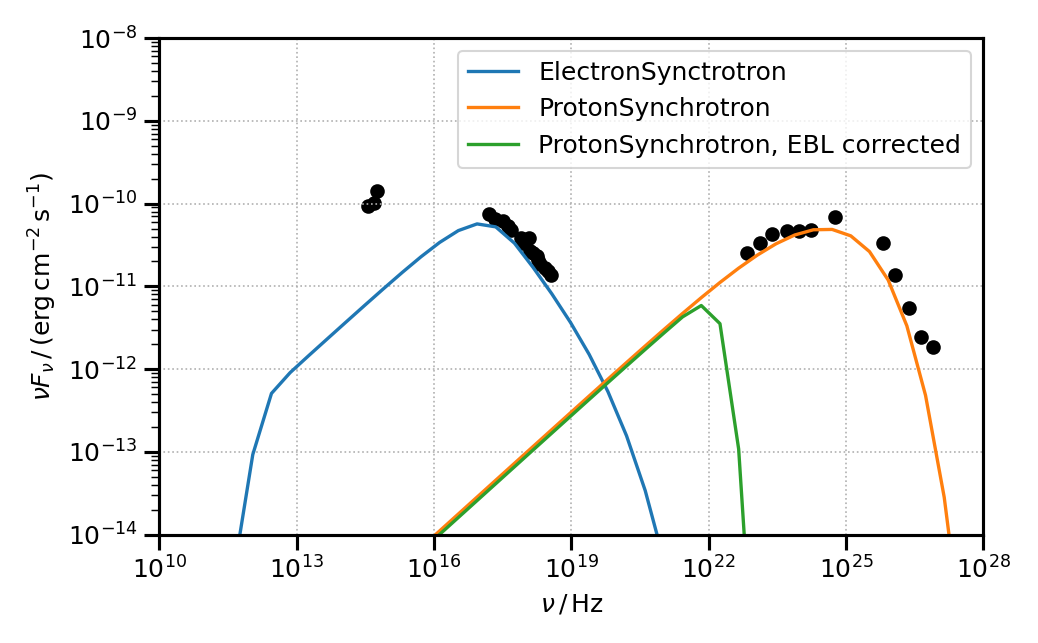
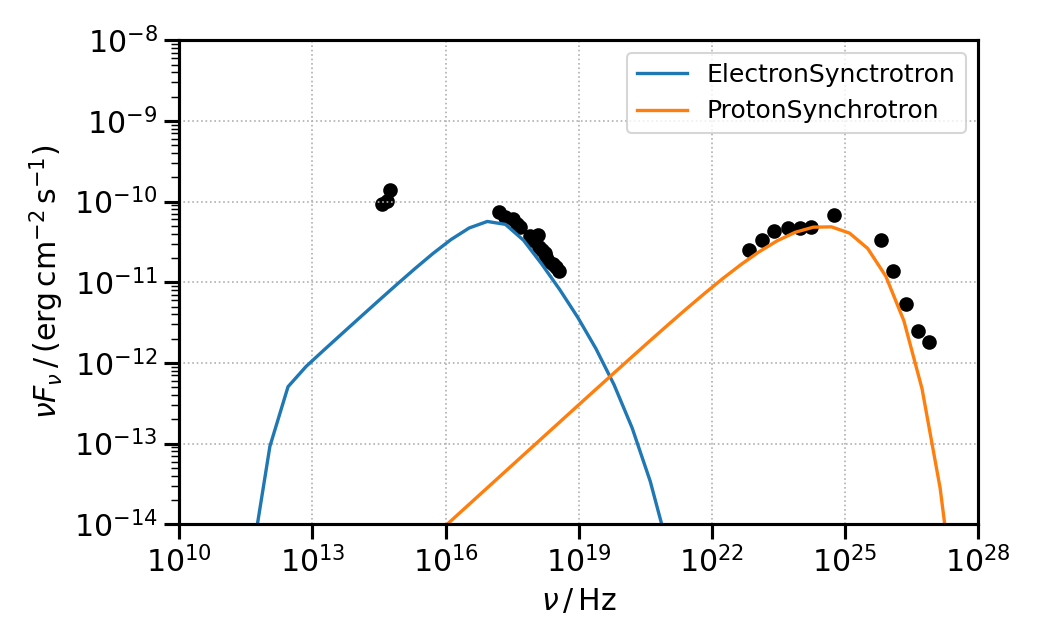
Change some typos in script and some imports to make scripts running. Now everything works and we should be ready for the PR.

diff --git a/agnpy/tesi/conversion.py b/agnpy/tesi/conversion.py
@@ -1,0 +1,46 @@
+import numpy as np
+import astropy.units as u
+from astropy.constants import e, h, c, m_e, m_p, sigma_T, G
+
+mec2 = m_e.to("erg", equivalencies=u.mass_energy())
+mpc2 = m_p.to("erg", equivalencies=u.mass_energy())
+lambda_c_e = (h / (m_e * c)).to("cm")  # Compton wavelength of electrons
+lambda_c_p = (h / (m_p * c)).to("cm")  # Compton wavelength of protons
+# equivalency for decomposing Gauss in Gaussian-cgs units (not available in astropy)
+Gauss_cgs_unit = "cm(-1/2) g(1/2) s-1"
+Gauss_cgs_equivalency = [(u.G, u.Unit(Gauss_cgs_unit), lambda x: x, lambda x: x)]
+
+# equivalency to transform frequencies to energies in electron or proton rest mass units
+def epsilon_equivalency(m = m_e):
+    if m == m_e:
+        epsilon_equivalency = [
+            (u.Hz, u.Unit(""), lambda x: h.cgs * x / mec2, lambda x: x * mec2 / h.cgs)
+            ]
+    elif m == m_p:
+        epsilon_equivalency = [
+            (u.Hz, u.Unit(""), lambda x: h.cgs * x / mpc2, lambda x: x * mpc2 / h.cgs)
+            ]
+    else:
+        raise ValueError(
+            f"Provide either the electron or the proton mass. "
+        )
+    return epsilon_equivalency
+
+
+def nu_to_epsilon_prime(nu, z=0, delta_D=1, m = m_e):
+    """convert the frequency to a dimensionless energy in another reference
+    frame with redshift z and moving with doppler factor delta_D"""
+    epsilon_eq = epsilon_equivalency(m)
+    epsilon = nu.to("", equivalencies=epsilon_eq)
+    return (1 + z) * epsilon / delta_D
+
+
+def B_to_cgs(B):
+    """convert a magnetic field to CGS units"""
+    return B.to(Gauss_cgs_unit, equivalencies=Gauss_cgs_equivalency)
+
+
+def to_R_g_units(r, M):
+    """convert a distance in graviational radii units"""
+    R_g = G * M / c ** 2
+    return (r / R_g).to("")

diff --git a/agnpy/tesi/comparison_PKS.py b/agnpy/tesi/comparison_PKS.py
@@ -2,9 +2,10 @@ import numpy as np
 import astropy.units as u
 from agnpy.spectra import ExpCutoffPowerLaw, ExpCutoffBrokenPowerLaw
 from agnpy.emission_regions import Blob
-#from agnpy.synchrotron import Synchrotron
-from synchrotron_new import Synchrotron
-from proton_synchrotron import ProtonSynchrotron
+from agnpy.synchrotron import Synchrotron
+#from synchrotron_new import Synchrotron
+from agnpy.synchrotron.proton_synchrotron import ProtonSynchrotron
+#from proton_synchrotron import ProtonSynchrotron
 
 from agnpy.utils.plot import plot_sed
 import matplotlib.pyplot as plt
@@ -18,11 +19,6 @@ from agnpy.utils.conversion import mec2, mpc2
 from agnpy.compton import SynchrotronSelfCompton
 
 load_mpl_rc()  # adopt agnpy plotting style
-
-# Try user-defined plot style
-#matplotlib.style.use('/Users/ilaria/Desktop/Dottorato_data/Plot_style/file.mplstyle')
-#matplotlib.style.use('seaborn-muted')
-#print(matplotlib.style.available)
 
 # Extract data of PKS 2155-304
 pks_sed = np.loadtxt('data/PKS2155-304/PKS2155-304_data_circa.txt')
@@ -117,10 +113,10 @@ plt.xlim(1e10, 1e28) # For frequencies
 plt.savefig('Comparison.png')
 plt.show()
 
-plt.figure(figsize = (6.92, 4.29))
-blob.plot_n_e(label = 'Electron distribution')
-blob.plot_n_p(label = 'Proton distribution')
+#plt.figure(figsize = (6.92, 4.29))
+#blob.plot_n_e(label = 'Electron distribution')
+#blob.plot_n_p(label = 'Proton distribution')
 #n_e.plot()
-plt.ylim(1e-44, 1e5)
-plt.legend()
+#plt.ylim(1e-44, 1e5)
+#plt.legend()
 #plt.savefig('Particle_distr.png')

diff --git a/agnpy/tesi/agnpy_vs_cerruti.py b/agnpy/tesi/agnpy_vs_cerruti.py
@@ -3,8 +3,9 @@ import astropy.units as u
 from agnpy.spectra import BrokenPowerLaw, ExpCutoffPowerLaw, ExpCutoffBrokenPowerLaw
 from agnpy.emission_regions import Blob
 #from agnpy.synchrotron import Synchrotron
-from synchrotron_new import Synchrotron
-from proton_synchrotron import ProtonSynchrotron
+#from synchrotron_new import Synchrotron
+from agnpy.synchrotron import ProtonSynchrotron
+#from proton_synchrotron import ProtonSynchrotron
 
 from agnpy.utils.plot import plot_sed
 import matplotlib.pyplot as plt
@@ -70,7 +71,7 @@ plt.show()
 # Comparing the two distributions:
 
 
-gamma, dndg = np.genfromtxt('data/Cerruti/second_email/test_ps.dat',  dtype = 'float', comments = '#', usecols = (2,3), unpack = True)
+gamma, dndg = np.genfromtxt('./data/Cerruti/second_email/test_ps.dat',  dtype = 'float', comments = '#', usecols = (2,3), unpack = True)
 
 n_p = ExpCutoffPowerLaw(k=120000 * u.Unit('cm-3'),
         p = 2.2,

diff --git a/agnpy/tesi/fitting_dermer.py b/agnpy/tesi/fitting_dermer.py
@@ -2,9 +2,9 @@ import numpy as np
 import astropy.units as u
 from agnpy.spectra import PowerLaw
 from agnpy.emission_regions import Blob
-#from agnpy.synchrotron import Synchrotron
-from synchrotron_new import Synchrotron
-from proton_synchrotron import ProtonSynchrotron
+from agnpy.synchrotron import Synchrotron
+#from synchrotron_new import Synchrotron
+#from proton_synchrotron import ProtonSynchrotron
 
 from agnpy.utils.plot import plot_sed
 import matplotlib.pyplot as plt

diff --git a/agnpy/tesi/ExpBkn_vs_Bkn.py b/agnpy/tesi/ExpBkn_vs_Bkn.py
@@ -2,8 +2,8 @@ import numpy as np
 import astropy.units as u
 from agnpy.spectra import BrokenPowerLaw, ExpCutoffBrokenPowerLaw
 from agnpy.emission_regions import Blob
-#from agnpy.synchrotron import Synchrotron
-from synchrotron_new import Synchrotron
+from agnpy.synchrotron import Synchrotron
+#from synchrotron_new import Synchrotron
 from proton_synchrotron import ProtonSynchrotron
 
 from agnpy.utils.plot import plot_sed

diff --git a/agnpy/tesi/proton_synchrotron.py b/agnpy/tesi/proton_synchrotron.py
@@ -11,7 +11,6 @@ __all__ = ["ProtonSynchrotron"]
 
 e = e.gauss
 
-
 class ProtonSynchrotron:
     """Class for synchrotron radiation computation
 
